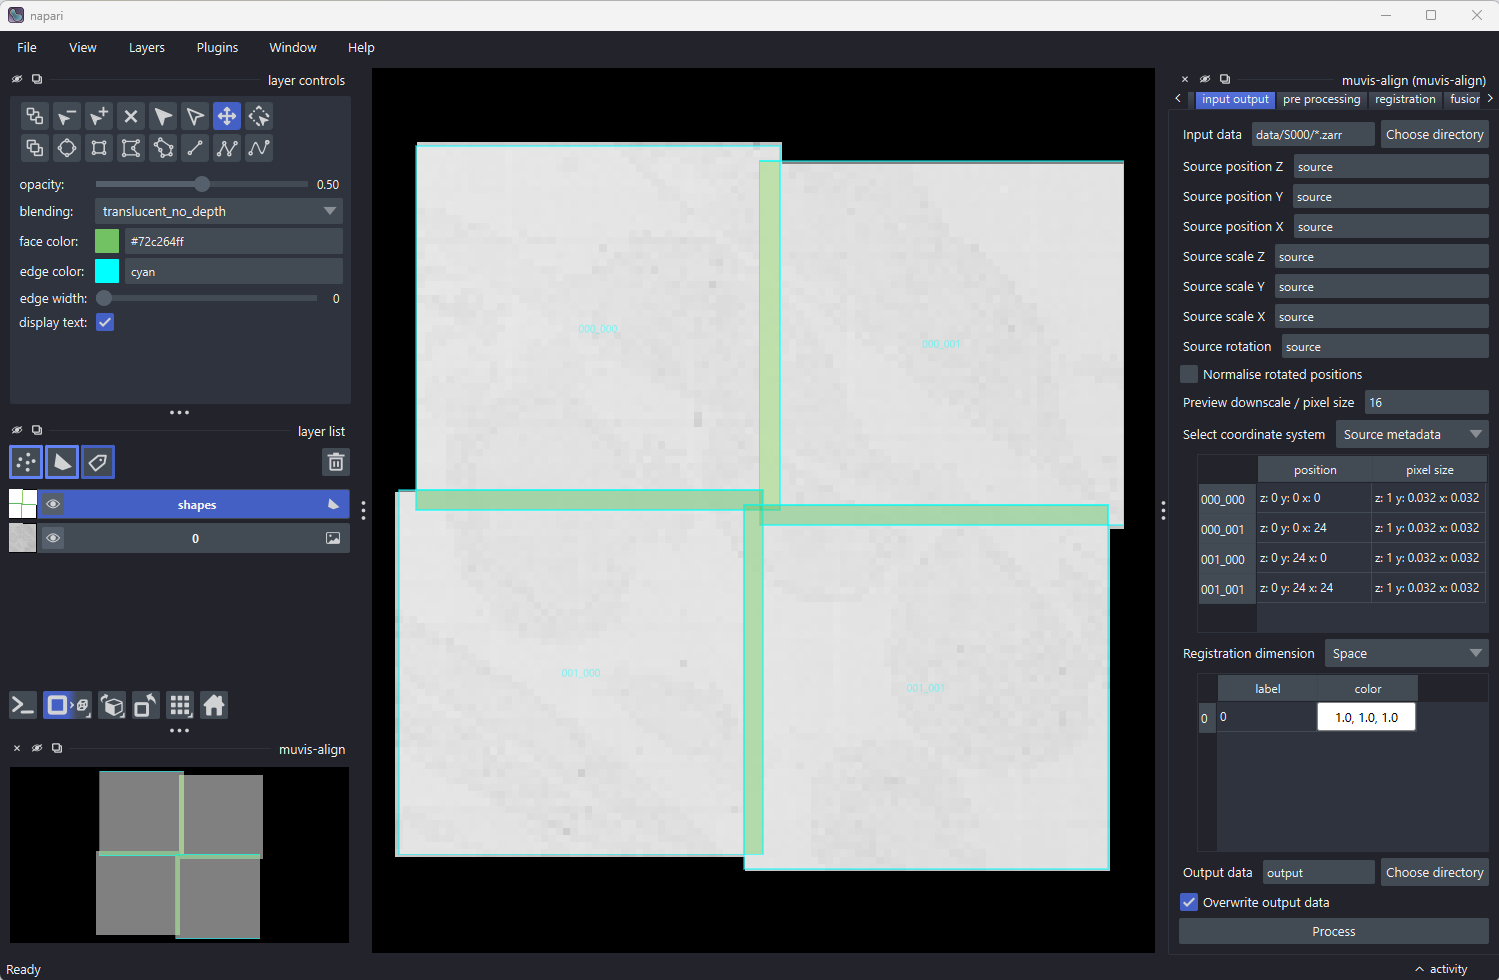
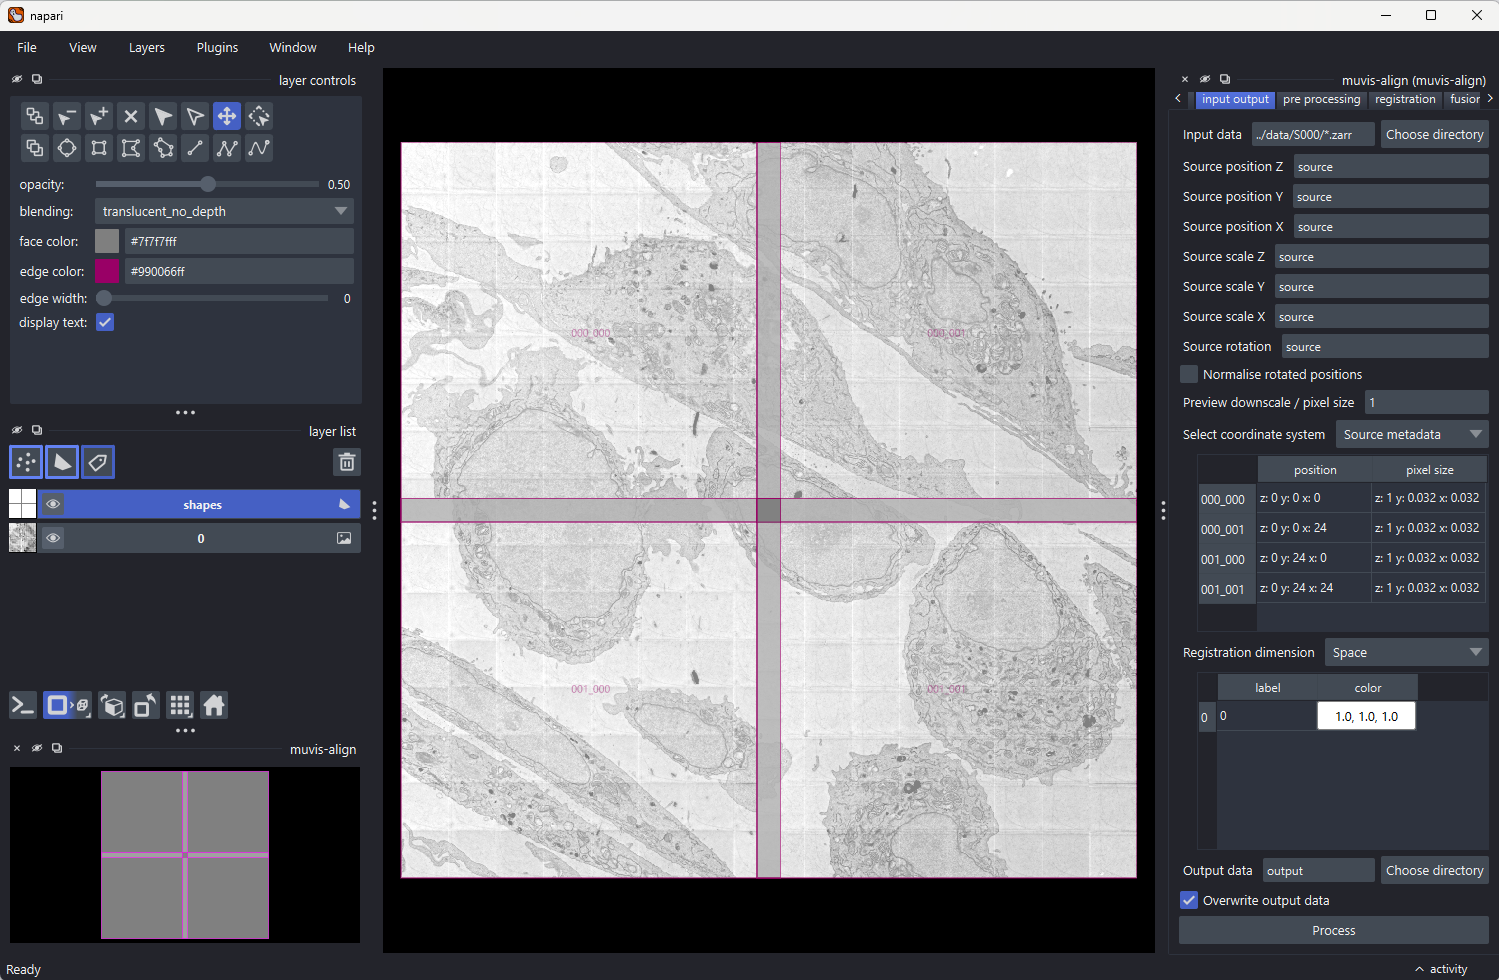
Docs: open the guide on the unregistered sample, end on the registered one
The first screenshot showed the tiles already registered, before any step was
explained. The capture driver can now pick the tab a window screenshot shows.

diff --git a/testing/napari_ui_capture.py b/testing/napari_ui_capture.py
@@ -56,6 +56,7 @@ def main():
     parser.add_argument('--tabs', action='store_true',
                         help='once the action is done, save the plugin on each tab')
     parser.add_argument('--window', action='store_true', help='once the action is done, save the whole window')
+    parser.add_argument('--window-tab', default=None, help='the plugin tab (label) the whole window shows')
     parser.add_argument('--pair-offset', type=float, default=0,
                         help='modify_pair_registration: shift the moving image by this much in x (world units)')
     args = parser.parse_args()
@@ -155,6 +156,9 @@ def main():
                                                                       for layer in layers))
 
     def save_window():
+        if args.window_tab:
+            widget.setCurrentIndex(widget.tab_labels.index(args.window_tab))
+            QApplication.processEvents()
         geometry = viewer.window._qt_window.frameGeometry()
         # a screen grab: Qt's own leaves the OpenGL canvas black
         ImageGrab.grab(bbox=(geometry.left(), geometry.top(), geometry.right(), geometry.bottom())).save(

diff --git a/docs/napari_guide.md b/docs/napari_guide.md
@@ -2,13 +2,14 @@
 
 A walk through the plugin, one tab at a time: every parameter on it, and what each of its
 buttons does. It follows the plugin's first sample, **2D section**: a 2×2 tile set
-(`data/S000/*.zarr` in this repository), which the screenshots show after registering it.
+(`data/S000/*.zarr` in this repository).
 Open it as in [Following along on the sample](#following-along-on-the-sample) to run each step
 as you read.
 
 ## Opening the plugin
 
-Start napari and open **Plugins → muvis-align**.
+Start napari and open **Plugins → muvis-align**. Below, the sample has just been opened and
+its sources read (**Process** on [input output](#2-input-output)).
 
 ![The plugin in napari](images/napari/window.png)
 
@@ -16,7 +17,8 @@ Start napari and open **Plugins → muvis-align**.
 - **At the bottom left**, the **muvis-align** overview: a small map of where the sources are,
   which stays put while you zoom into the main view.
 - **In the main view**, the sources at their positions, with each overlap between two
-  sources drawn as a green shape.
+  sources drawn as a shape: grey until registered, then coloured by the pair's registration
+  quality.
 
 A tab is enabled once the step before it has run: at the start only **project** is.
 Each tab ends in a **Process** button that runs its step. While a step runs, the plugin's
@@ -224,3 +226,12 @@ The buttons:
   (or `merged`). It first asks to confirm, with an estimate of the output size, and runs
   any registration still missing. It also writes an RO-Crate inside the OME-Zarr describing
   the acquisition, and updates the one in the output folder.
+
+## The registered result
+
+After **Process** on the registration tab, the sources sit at their registered positions. Each
+overlap, in the view, the overview and the metrics table, is coloured by its pair's
+registration quality, from red (poor) to green (good). Here the sample's settings (SIFT,
+rigid) give each pair a moderate quality.
+
+![The registered sample](images/napari/registered.png)
